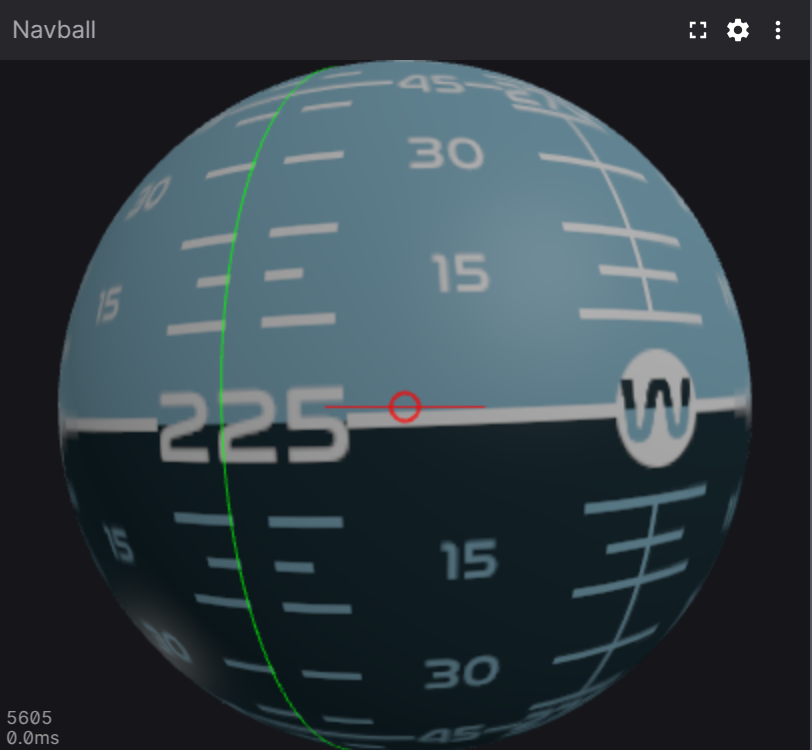
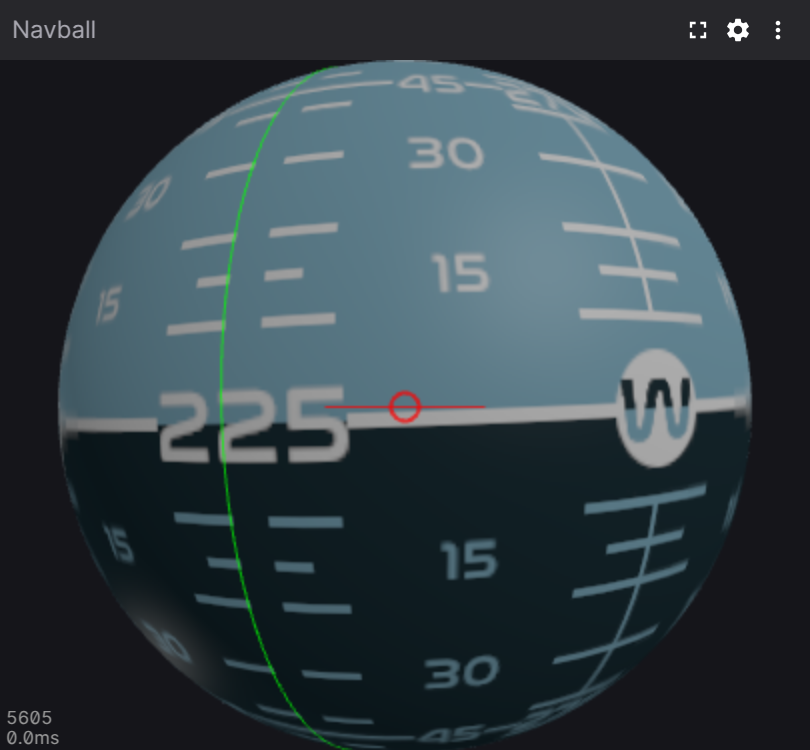
clean up image

diff --git a/README.md b/README.md
@@ -9,7 +9,7 @@ You can optionally subscribe it to a
 topic to describe a course heading, which will be represented as a green
 meridian on the sphere.
 
-![Screenshot](docs/screenshot.png)
+![Screenshot | height = 400px](docs/screenshot.png)
 
 ## Installation
 
